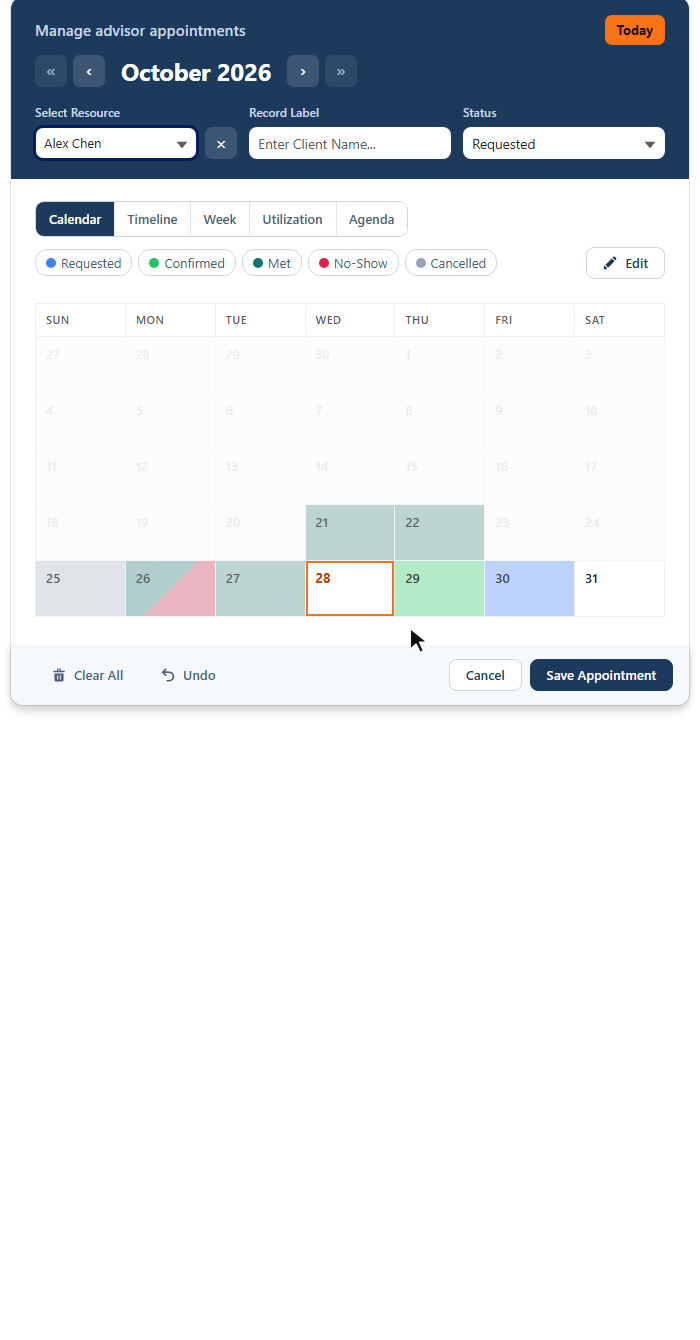
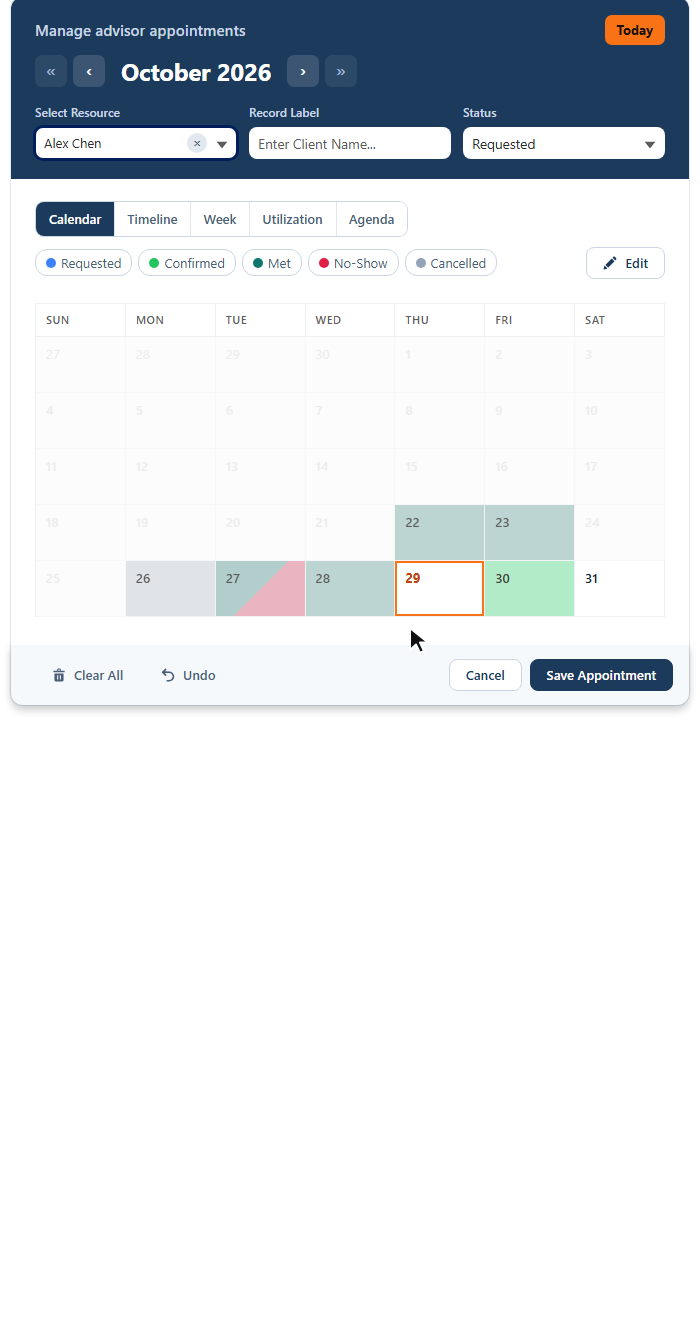
Re-record the Edit Mode GIFs: the move leaves one day picked, the new status shows at once

Changed region(s): [[0.03, 0.3672, 0.84, 0.459], [0.27, 0.0918, 0.36, 0.1224]]

diff --git a/user-guide.html b/user-guide.html
@@ -220,7 +220,7 @@
                 {"@type": "ImageObject", "contentUrl": "https://multidatepick.com/images/user-guide/UG-08-wizard-import-export-tab.png", "caption": "MultiDatePick Setup Wizard in Salesforce: the Import tab with a box for pasting a JSON config and the Save Description card after import", "creditText": "MultiDatePick", "creator": {"@type": "Organization", "name": "MultiDatePick"}},
                 {"@type": "ImageObject", "contentUrl": "https://multidatepick.com/images/user-guide/H21-wizard-existing-configurations.png", "caption": "MultiDatePick Setup Wizard in Salesforce: the Existing Configurations tab listing saved configs with their component type, label and description", "creditText": "MultiDatePick", "creator": {"@type": "Organization", "name": "MultiDatePick"}},
                 {"@type": "ImageObject", "contentUrl": "https://multidatepick.com/images/edit-mode/salesforce-calendar-bulk-status-change.gif", "thumbnailUrl": "https://multidatepick.com/images/edit-mode/salesforce-calendar-bulk-status-change-poster.png", "caption": "Animated demo of MultiDatePick Edit Mode on a Salesforce calendar: two days of Requested appointments are selected, Select All picks both bookings, the status is changed to Confirmed, and after Apply Changes both days turn from blue to green", "creditText": "MultiDatePick", "creator": {"@type": "Organization", "name": "MultiDatePick"}},
-                {"@type": "ImageObject", "contentUrl": "https://multidatepick.com/images/edit-mode/salesforce-calendar-move-booking-date.gif", "caption": "Animated demo of MultiDatePick Edit Mode on a Salesforce calendar: one day's three client appointments are selected, a new date is entered in Move to date, and after Apply Changes the bookings leave October 30 and appear on November 4", "creditText": "MultiDatePick", "creator": {"@type": "Organization", "name": "MultiDatePick"}},
+                {"@type": "ImageObject", "contentUrl": "https://multidatepick.com/images/edit-mode/salesforce-calendar-move-booking-date.gif", "caption": "Animated demo of MultiDatePick Edit Mode on a Salesforce calendar: a day's client appointment is selected, the next day is entered in Move to date, and after Apply Changes the booking leaves October 30 and appears on October 31, the only day still picked", "creditText": "MultiDatePick", "creator": {"@type": "Organization", "name": "MultiDatePick"}},
                 {"@type": "ImageObject", "contentUrl": "https://multidatepick.com/images/user-guide/UG-09-status-edit-tab.png", "caption": "Salesforce booking calendar with status colors on each day and Edit Mode open: the selected day lists each appointment by client name with its status, time and advisor, ready for a bulk status change or move", "creditText": "MultiDatePick", "creator": {"@type": "Organization", "name": "MultiDatePick"}},
                 {"@type": "ImageObject", "contentUrl": "https://multidatepick.com/images/views/salesforce-timeline-capacity-lanes.png", "caption": "Salesforce timeline view with overlapping multi-day bookings stacked into lanes under each resource, a twisty on each multi-lane row, and a combined capacity strip across the top", "creditText": "MultiDatePick", "creator": {"@type": "Organization", "name": "MultiDatePick"}},
                 {"@type": "ImageObject", "contentUrl": "https://multidatepick.com/images/views/salesforce-timeline-drag-to-reschedule.gif", "thumbnailUrl": "https://multidatepick.com/images/views/salesforce-timeline-drag-to-reschedule-poster.png", "caption": "Animated demo of rescheduling on the MultiDatePick Salesforce timeline: dragging the right edge of an engagement stretches it two days, then dragging another engagement slides it two days later, each saving on release with its new dates shown on the bar", "creditText": "MultiDatePick", "creator": {"@type": "Organization", "name": "MultiDatePick"}},
@@ -650,7 +650,7 @@
                         <figcaption>Bulk status change: select the days, Select All, pick the status, Apply.</figcaption>
                     </figure>
                     <figure>
-                        <img src="images/edit-mode/salesforce-calendar-move-booking-date.gif" alt="Animated demo of MultiDatePick Edit Mode on a Salesforce calendar: one day's three client appointments are selected, a new date is entered in Move to date, and after Apply Changes the bookings leave October 30 and appear on November 4" loading="lazy" decoding="async" data-zoomable width="700" height="1340">
+                        <img src="images/edit-mode/salesforce-calendar-move-booking-date.gif" alt="Animated demo of MultiDatePick Edit Mode on a Salesforce calendar: a day's client appointment is selected, the next day is entered in Move to date, and after Apply Changes the booking leaves October 30 and appears on October 31, the only day still picked" loading="lazy" decoding="async" data-zoomable width="700" height="1340">
                         <figcaption>Move bookings: pick the day, choose a new date, Apply. The same panel changes resource or times.</figcaption>
                     </figure>
                 </div>
